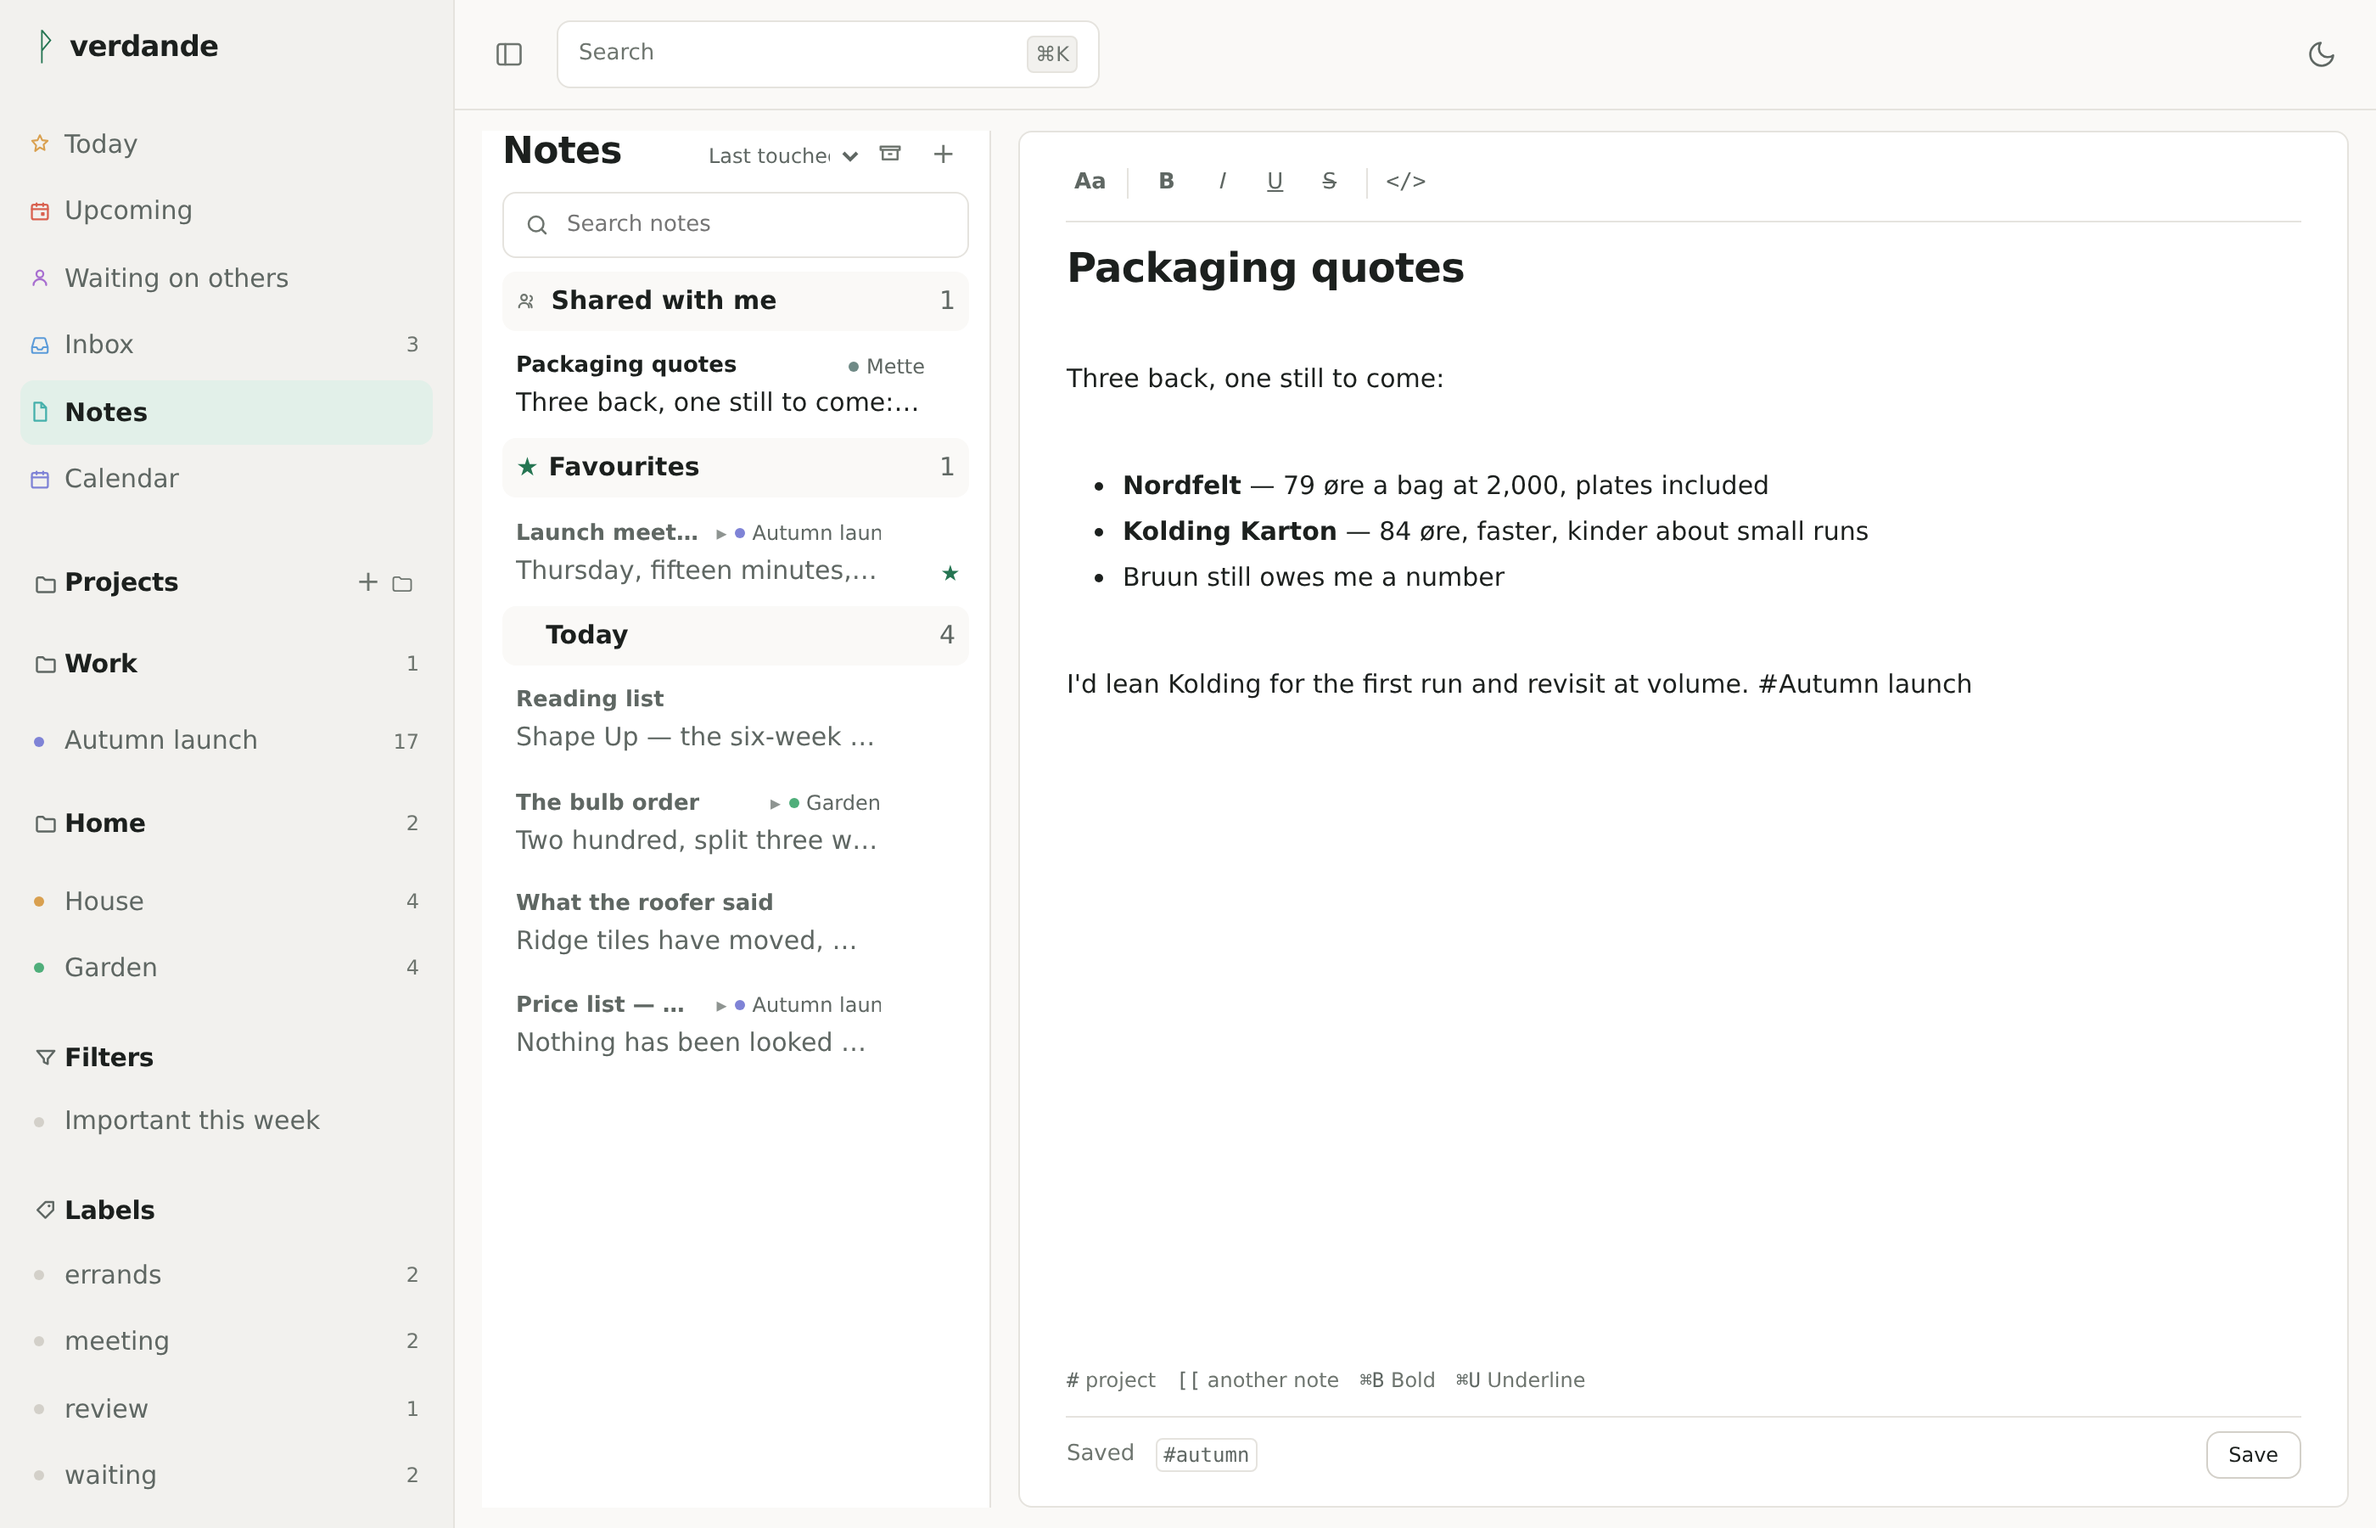
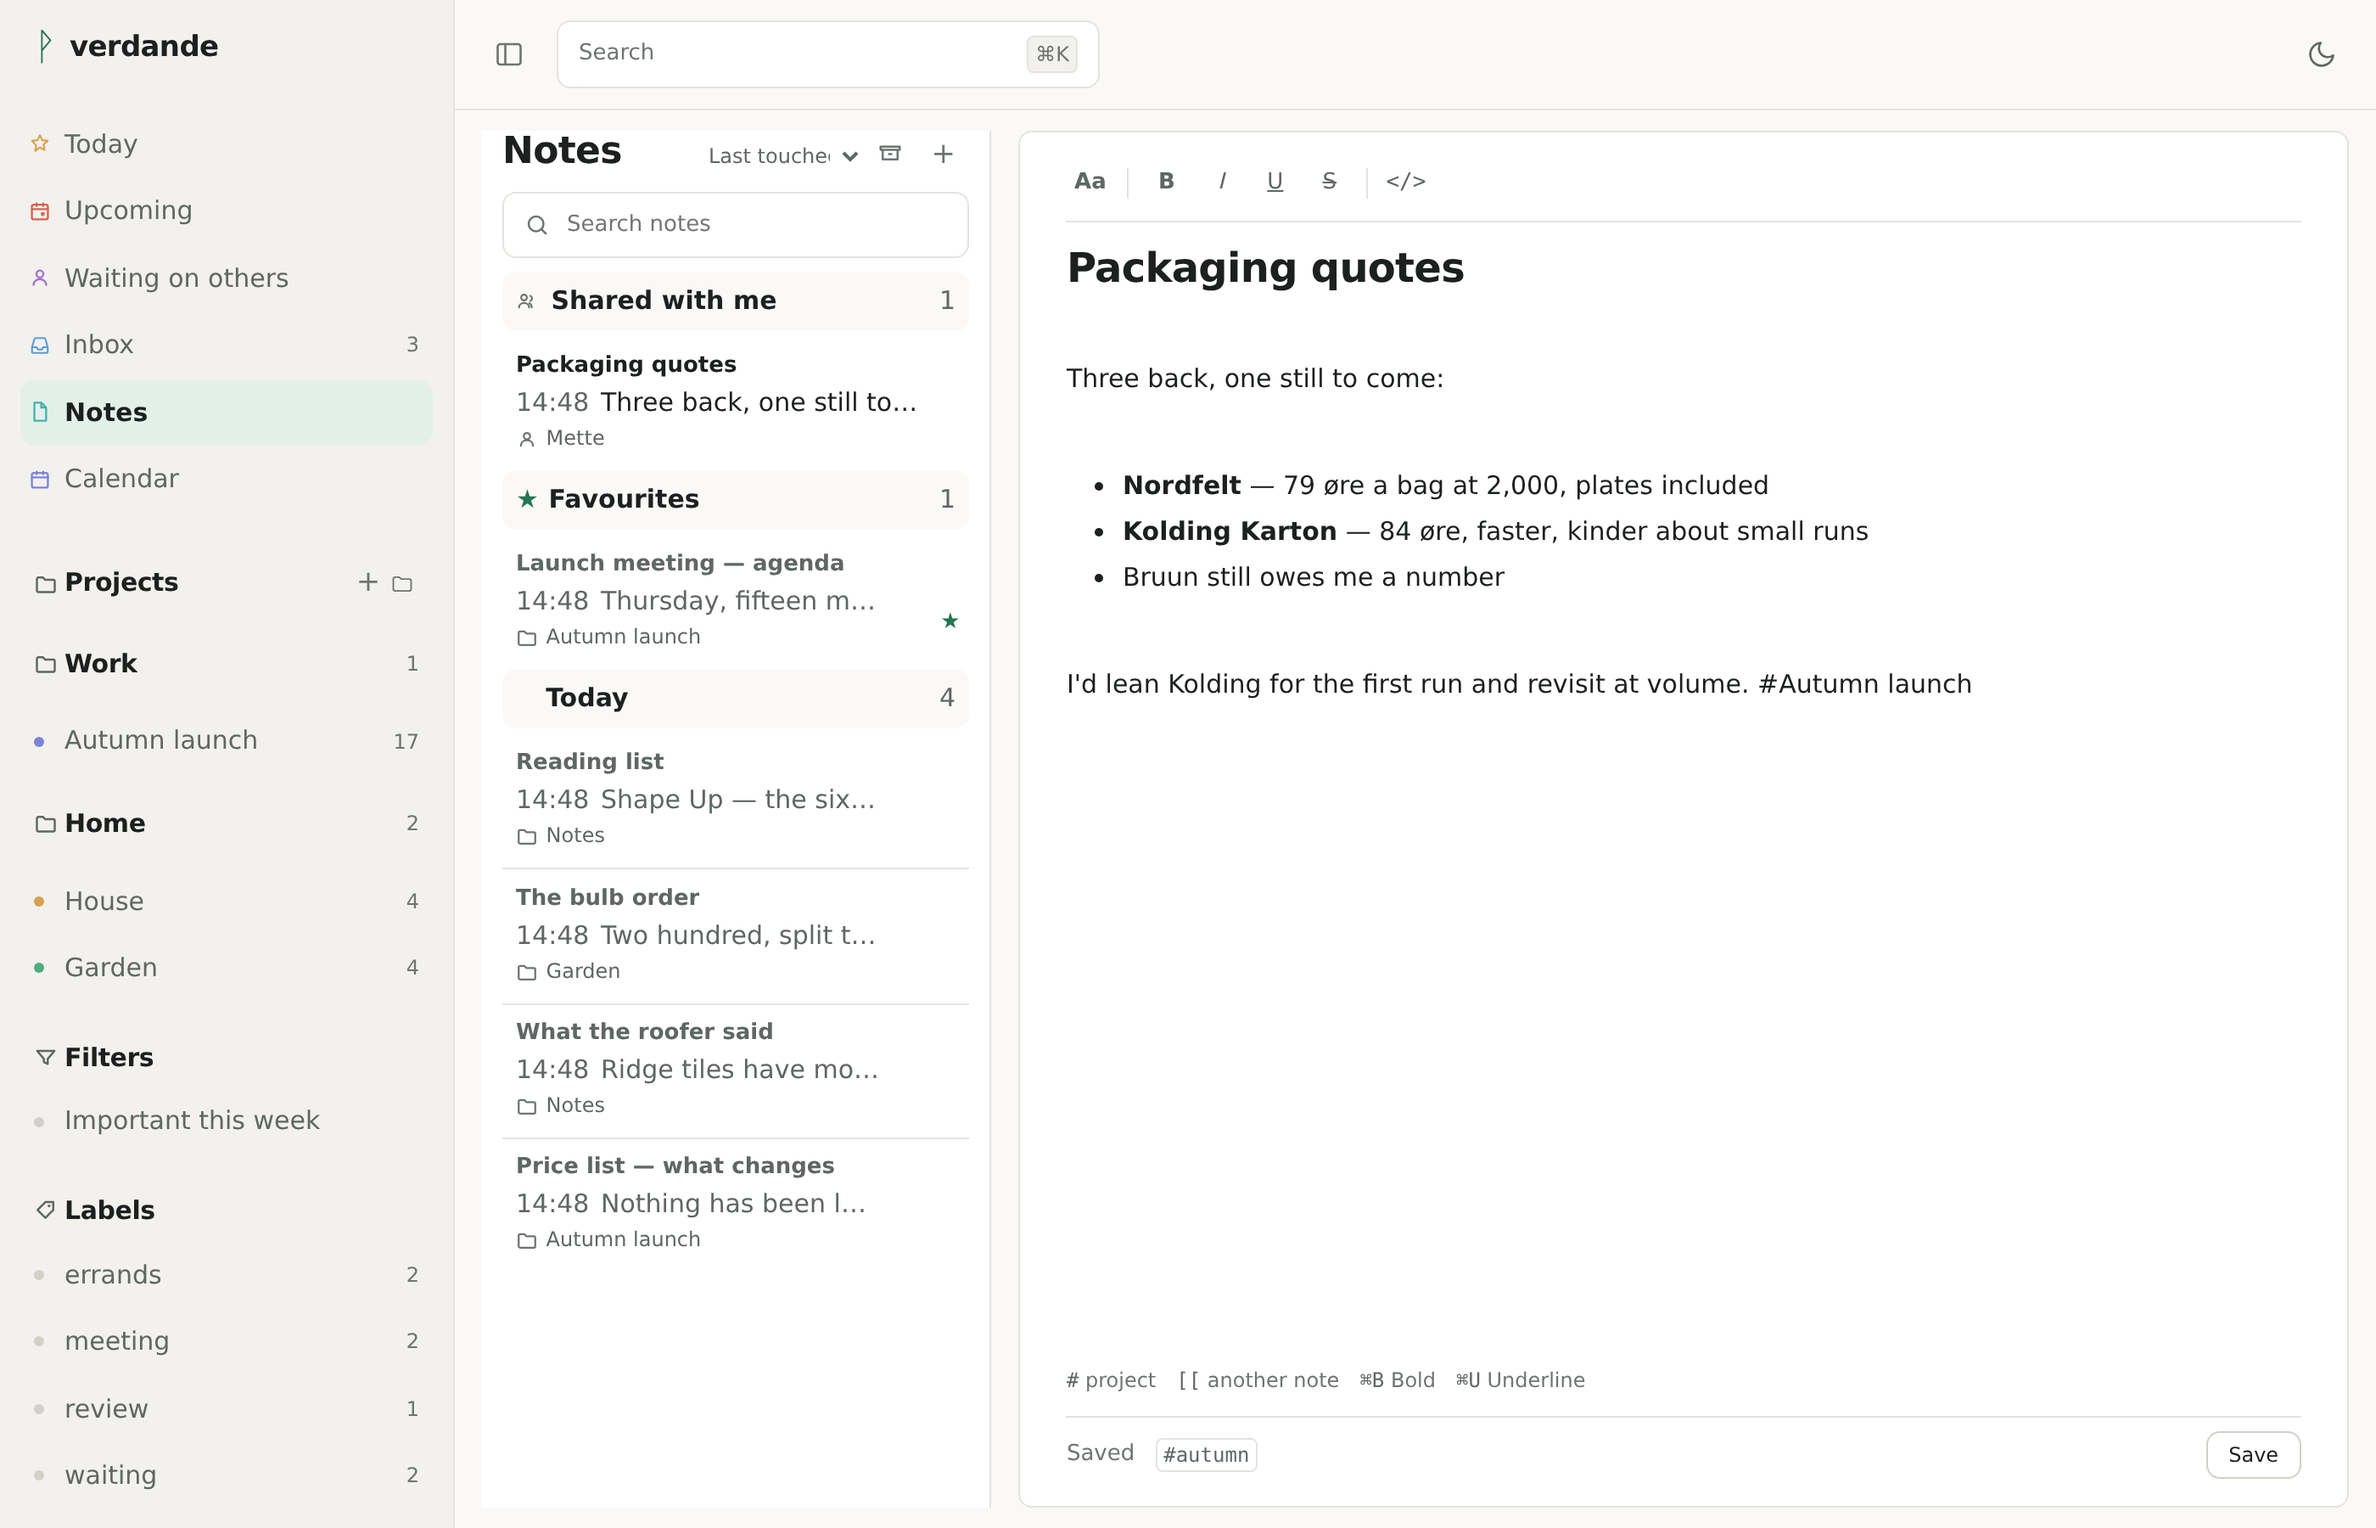
feat(notes): three-line rows like Apple Notes, with a filed line and dividers
Each note is three lines now: the title, then the date and the excerpt,
then where the note is filed — a folder like the menu's groups and the
project's name, the owner's when it is someone else's, or simply "Noter"
when it belongs to no project. The date leads the second line, left
aligned, instead of being pushed to the right of the title. A faint
hairline separates one note from the next, and a month heading is
capitalised ("August 2026", not "august 2026").

Changed region(s): [[0.2175, 0.2489, 0.3729, 0.8089]]

diff --git a/web/src/routes/noter/+page.svelte b/web/src/routes/noter/+page.svelte
@@ -132,7 +132,10 @@
 		if (days === 1) return { key: 'i-gaar', label: t('notes.groupYesterday') };
 		if (days < 7) return { key: 'ugen', label: t('notes.groupWeek') };
 
-		const label = at.toLocaleDateString(tag(), { month: 'long', year: 'numeric' });
+		// Stort forbogstav på måneden: Intl giver "august 2026" på dansk, og en
+		// overskrift begynder med stort.
+		const month = at.toLocaleDateString(tag(), { month: 'long', year: 'numeric' });
+		const label = month.charAt(0).toUpperCase() + month.slice(1);
 		return { key: `m-${at.getFullYear()}-${at.getMonth()}`, label };
 	}
 
@@ -835,41 +838,38 @@
 										ondragstart={(e) => onDragStart(e, note)}
 										ondragend={() => (dragging = null)}
 									>
-										<!-- Titel og projekt på linje ét, uddrag på linje to. Datoen står
-										     i gruppens overskrift og ikke her — undtagen når der er sorteret
-										     på navn, for så er der ingen overskrift, der siger den, og så er
-										     den det eneste tilbage, der gør. -->
+										<!-- Tre linjer, som Apple Noter: titlen, så datoen og uddraget, og
+										     nederst hvor noten er lagt. Datoen står forrest på linje to og
+										     venstrestillet, ikke ude til højre. -->
 										<span class="head">
 											<strong>{note.title || t('notes.untitled')}</strong>
-											{#if order === 'title'}
-												<span class="when" title={stamp(note)}>{when(shownDate(note))}</span>
-											{/if}
-											{#if note.project_id}
-												<!-- Projektets egen farve, den samme som prikken i sidebjælken.
-												     Mærkaten sagde det samme som alle de andre i en grå, der var
-												     lysere end uddraget — og projektet er dét, man skanner efter,
-												     når man leder i tolv hundrede noter. Nu kan Hjem kendes fra
-												     Claude uden at læse ordet. -->
-												<span class="filed" style="--project: {projectColour(note.project_id)}">
-													<span class="dot" aria-hidden="true"></span>
-													{projectName(note.project_id)}
-												</span>
-											{/if}
+										</span>
+										<span class="preview">
+											<span class="when" title={stamp(note)}>{when(shownDate(note))}</span>
+											<span class="snippet">{preview(note)}</span>
+										</span>
+										<!-- Linje tre: hvor noten er lagt, med den samme mappe som grupperne i
+										     menuen — projektets navn, ejerens hvis den er en andens, ellers bare
+										     "Noter", når den ikke hører til et projekt. -->
+										<span class="filed">
 											{#if note.shared_with_me && note.owner}
-												<!-- Hvis note delt med mig: hvem den kom fra, i personens egen
-												     avatar-farve. Samme form som projekt-mærkaten, så listen har
-												     ét sprog for "det her hører til nogen". -->
-												<span
-													class="filed person"
-													style="--project: {note.owner.avatar_color}"
-													title={t('notes.sharedBy', { name: note.owner.name })}
-												>
-													<span class="dot" aria-hidden="true"></span>
-													{note.owner.name}
-												</span>
+												<svg class="filed-icon" viewBox="0 0 16 16" aria-hidden="true">
+													<circle cx="8" cy="6" r="2.3" fill="none" stroke="currentColor" stroke-width="1.4" />
+													<path d="M3.6 13c0-2.5 2-4 4.4-4s4.4 1.5 4.4 4" fill="none" stroke="currentColor" stroke-width="1.4" stroke-linecap="round" />
+												</svg>
+												<span class="filed-name" title={t('notes.sharedBy', { name: note.owner.name })}>{note.owner.name}</span>
+											{:else if note.project_id}
+												<svg class="filed-icon" viewBox="0 0 16 16" aria-hidden="true">
+													<path d="M2 4.6a1 1 0 011-1h3.1l1.4 1.5H13a1 1 0 011 1v6.3a1 1 0 01-1 1H3a1 1 0 01-1-1z" fill="none" stroke="currentColor" stroke-width="1.4" stroke-linejoin="round" />
+												</svg>
+												<span class="filed-name">{projectName(note.project_id)}</span>
+											{:else}
+												<svg class="filed-icon" viewBox="0 0 16 16" aria-hidden="true">
+													<path d="M2 4.6a1 1 0 011-1h3.1l1.4 1.5H13a1 1 0 011 1v6.3a1 1 0 01-1 1H3a1 1 0 01-1-1z" fill="none" stroke="currentColor" stroke-width="1.4" stroke-linejoin="round" />
+												</svg>
+												<span class="filed-name">{t('notes.title')}</span>
 											{/if}
 										</span>
-										<span class="preview">{preview(note)}</span>
 									</button>
 									<!-- De to knapper står oven på hinanden i en smal søjle.
 									     Ved siden af hinanden tog de toogfyrre pixels af en liste,
@@ -1326,13 +1326,20 @@
 	 * målt på en rigtig række: titel plus én linje uddrag. */
 	li {
 		content-visibility: auto;
-		contain-intrinsic-size: auto 54px;
+		contain-intrinsic-size: auto 74px;
 	}
 
+	/* A faint hairline between notes, as Apple Notes has — the group boxes give the
+	   coarse structure, this separates one note from the next inside a group. */
 	.rowline {
 		display: flex;
 		align-items: center;
 		gap: var(--s1);
+		border-bottom: 1px solid var(--line);
+	}
+
+	li:last-child .rowline {
+		border-bottom: none;
 	}
 
 	/* De sjældne handlinger i en søjle, ikke en række. To knapper ved siden af
@@ -1490,19 +1497,25 @@
 	/* Dato og begyndelse på samme linje, som Apple Noter gør det. To linjer pr.
 	   note frem for tre, og datoen først, fordi det er den, man skanner efter. */
 
+	/* Datoen forrest på linje to og venstrestillet, som Apple Noter — ikke skubbet
+	   ud til højre. Tabular-tal, så en søjle af datoer står på lige linjer. */
 	.when {
 		flex: none;
 		color: var(--ink-muted);
+		font-variant-numeric: tabular-nums;
 	}
 
-	/* `display: block`, og det er ikke pynt.
-	 *
-	 * Uddraget lå før inde i en flex-boks, der ejede afkortningen. Da datoen flyttede
-	 * op i gruppens overskrift, forsvandt den boks — og et inline-element klippes
-	 * ikke af `overflow: hidden`, så den sidste sætning løb videre ind under
-	 * favoritstjernen. Reglerne skal stå på det element, der faktisk skal klippes. */
+	/* Linje to er en flex-række: datoen, der ikke krymper, og uddraget, der klippes.
+	   Afkortningen skal stå på uddraget selv — et inline-element klippes ikke af
+	   `overflow: hidden`. */
 	.preview {
-		display: block;
+		display: flex;
+		align-items: baseline;
+		gap: 0.45em;
+		min-width: 0;
+	}
+
+	.snippet {
 		min-width: 0;
 		overflow: hidden;
 		text-overflow: ellipsis;
@@ -1519,31 +1532,30 @@
 	 * Prikken bærer farven, ikke teksten. Fem projekters farver som skriftfarve på
 	 * en lys flade er fem forskellige grader af læsbarhed, og den lyseste af dem er
 	 * ikke læsbar. */
+	/* Linje tre: hvor noten er lagt. En mappe som grupperne i menuen og et navn,
+	   venstrestillet under uddraget — ikke en mærkat skubbet ud til højre. */
 	.filed {
 		display: flex;
 		align-items: center;
-		gap: 0.375em;
-		flex: none;
-		margin-left: auto;
-		max-width: 45%;
-		overflow: hidden;
-		text-overflow: ellipsis;
-		white-space: nowrap;
+		gap: 0.4em;
+		min-width: 0;
+		margin-top: 1px;
 		font-size: var(--text-xs);
 		color: var(--ink-muted);
 	}
 
-	.filed .dot {
-		width: 6px;
-		height: 6px;
+	.filed-icon {
+		width: 13px;
+		height: 13px;
 		flex: none;
-		border-radius: var(--radius-full);
-		background: var(--project, var(--line-strong));
+		color: var(--ink-faint);
 	}
 
-	.filed::before {
-		content: '▸ ';
-		opacity: 0.7;
+	.filed-name {
+		min-width: 0;
+		overflow: hidden;
+		text-overflow: ellipsis;
+		white-space: nowrap;
 	}
 
 	/* Noten er et ark, ikke en flade i appen.
@@ -1763,17 +1775,6 @@
 		display: block;
 	}
 
-	/* The person chip: the project mark's shape in a person's own colour. No ▸
-	   before it — the coloured dot already says "belongs to", and two markers on
-	   one short chip is noise. It sits next to the title rather than pushed to the
-	   right, so in the Delt med mig group it reads as "Ferieplan — Sofie". */
-	.filed.person {
-		margin-left: 0.5em;
-		max-width: 40%;
-	}
-	.filed.person::before {
-		content: none;
-	}
 
 	.sharepanel .none {
 		font-size: var(--text-xs);
